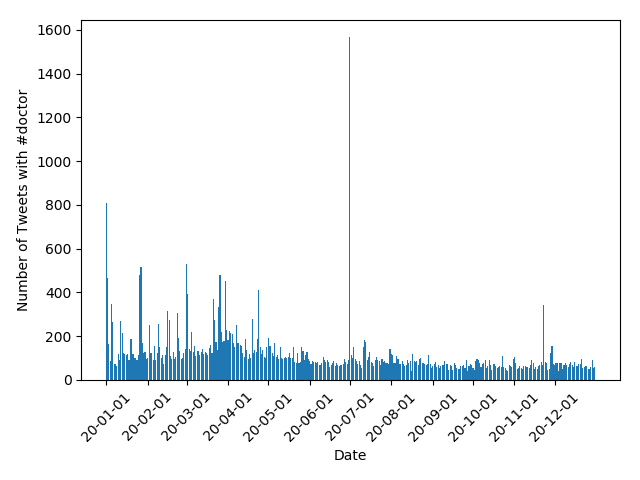
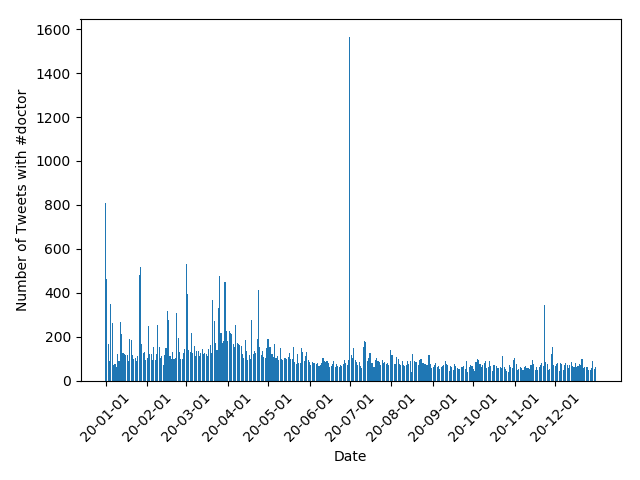
fixed plots I think

diff --git a/src/alternative_reduce.py b/src/alternative_reduce.py
@@ -52,5 +52,5 @@ for hashtag in args.hashtags:
     plt.gca().xaxis.set_major_formatter(mdates.DateFormatter("%y-%m-%d"))
     plt.xticks([x for x in date if x.day == 1], rotation=45)
     plt.ylabel(f"Number of Tweets with {hashtag}")
-    plt.tight_layout()
+    plt.tight_layout(pad = 1.15)
     plt.savefig(f"daily_{hashtag}_tweets_plot.png")
